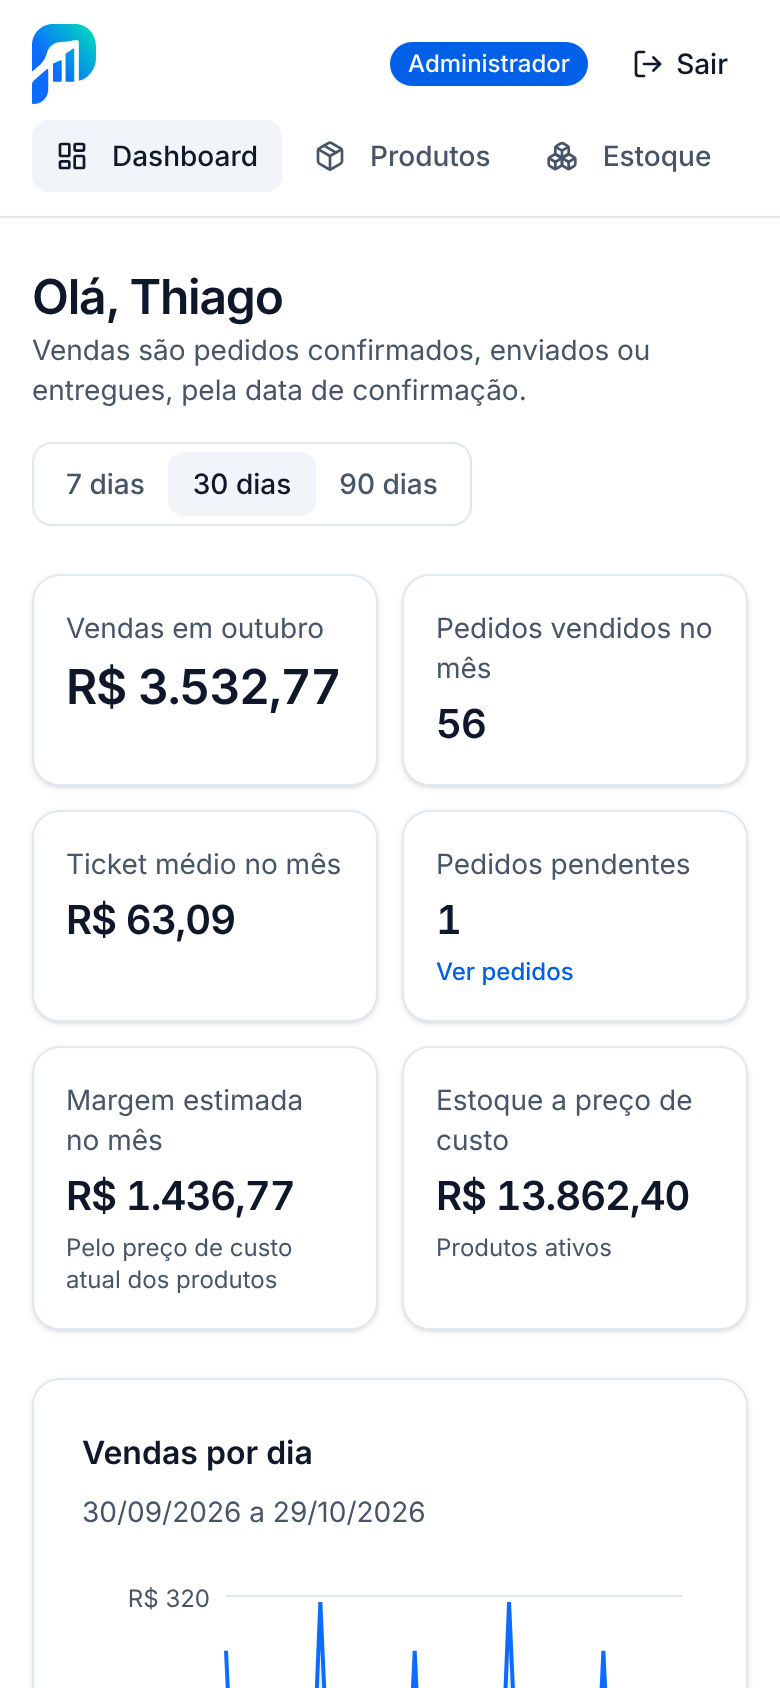
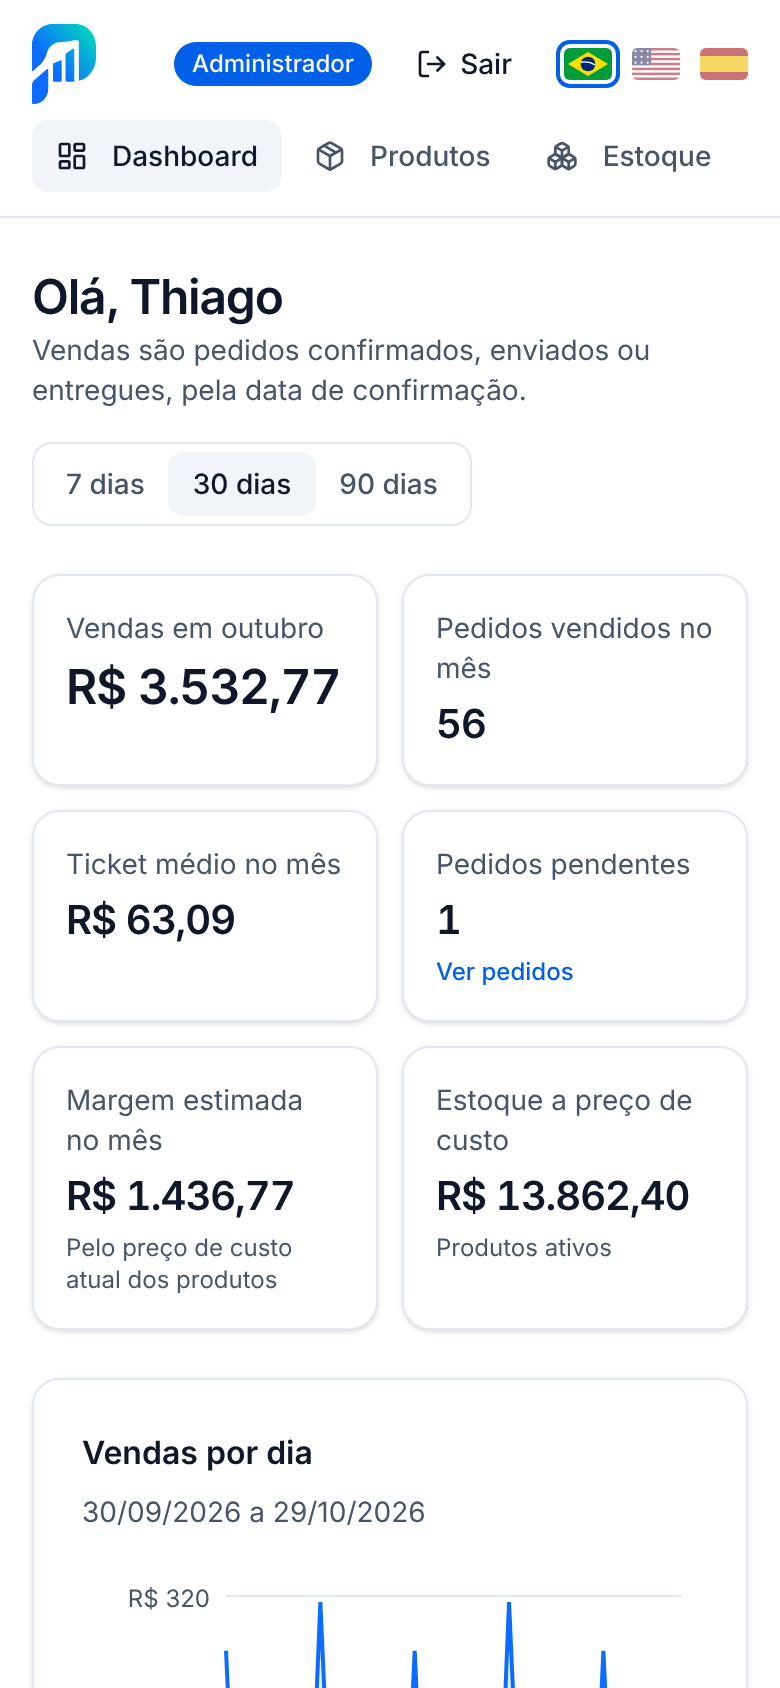
Capturas de tela com o seletor de idioma, uma por idioma do README
- docs/screenshots/*.png refeitas em português, com as bandeiras no topo.
- docs/screenshots/en e docs/screenshots/es: as mesmas telas em inglês e
  espanhol, usadas pelo README.en.md e pelo README.es.md.
- Funcionalidades dos três READMEs citam os três idiomas.

Claude-Session: https://claude.ai/code/session_01VMvWN1fccSBpVKyhRyJjJP

Changed region(s): [[0.2154, 0.0, 0.9538, 0.0616]]

diff --git a/README.es.md b/README.es.md
@@ -23,7 +23,7 @@
 </p>
 
 <p align="center">
-  <img src="docs/screenshots/dashboard.png" alt="Panel con los indicadores del mes y el gráfico de ventas por día" width="900">
+  <img src="docs/screenshots/es/dashboard.png" alt="Panel con los indicadores del mes y el gráfico de ventas por día" width="900">
 </p>
 
 ## Sobre el proyecto
@@ -50,20 +50,21 @@ Las reglas que no pueden fallar viven en PostgreSQL, no solo en la pantalla: per
 - **Usuarios:** el administrador cambia perfiles y activa o desactiva cuentas; quien es desactivado pierde el acceso al instante.
 - **API REST:** rutas para productos, inventario, clientes, pedidos, panel y usuarios, con validación en Zod y errores estandarizados.
 - **Datos de demostración:** 16 productos, 10 clientes y unos 110 pedidos de los últimos 60 días, creados con las mismas funciones de la aplicación.
+- **Tres idiomas:** portugués, inglés y español, elegidos con las banderas en la parte superior de la pantalla. Textos, mensajes de error, números y fechas cambian juntos; en la primera visita se usa el idioma del navegador.
 
 ## Pantallas
 
 | | |
 | --- | --- |
-| ![Lista de pedidos con estado](docs/screenshots/pedidos.png) | ![Pedido pendiente con sus acciones de estado](docs/screenshots/pedido.png) |
+| ![Lista de pedidos con estado](docs/screenshots/es/pedidos.png) | ![Pedido pendiente con sus acciones de estado](docs/screenshots/es/pedido.png) |
 | Pedidos: búsqueda por número o cliente y filtro de estado | Pedido: ítems, total, cliente y acciones de estado |
-| ![Inventario con alerta de inventario bajo e historial](docs/screenshots/estoque.png) | ![Lista de productos](docs/screenshots/produtos.png) |
+| ![Inventario con alerta de inventario bajo e historial](docs/screenshots/es/estoque.png) | ![Lista de productos](docs/screenshots/es/produtos.png) |
 | Inventario: movimientos, alerta de mínimo e historial | Productos: búsqueda, categoría y estado |
-| ![Administración de usuarios](docs/screenshots/usuarios.png) | ![Pantalla de inicio de sesión](docs/screenshots/login.png) |
+| ![Administración de usuarios](docs/screenshots/es/usuarios.png) | ![Pantalla de inicio de sesión](docs/screenshots/es/login.png) |
 | Usuarios: perfil y acceso, solo para el administrador | Inicio de sesión |
 
 <p align="center">
-  <img src="docs/screenshots/dashboard-celular.png" alt="Panel en el móvil" width="320">
+  <img src="docs/screenshots/es/dashboard-celular.png" alt="Panel en el móvil" width="320">
   <br>
   <sub>Panel en el móvil</sub>
 </p>

diff --git a/README.en.md b/README.en.md
@@ -23,7 +23,7 @@
 </p>
 
 <p align="center">
-  <img src="docs/screenshots/dashboard.png" alt="Dashboard with the month's indicators and a daily sales chart" width="900">
+  <img src="docs/screenshots/en/dashboard.png" alt="Dashboard with the month's indicators and a daily sales chart" width="900">
 </p>
 
 ## About the project
@@ -50,20 +50,21 @@ The rules that must never fail live in PostgreSQL, not only in the UI: role-base
 - **Users:** the admin changes roles and activates or deactivates accounts; a deactivated user loses access immediately.
 - **REST API:** routes for products, inventory, customers, orders, dashboard and users, validated with Zod and with standard error responses.
 - **Demo data:** 16 products, 10 customers and about 110 orders from the last 60 days, created through the same functions the app uses.
+- **Three languages:** Portuguese, English and Spanish, picked with the flags at the top of the screen. Text, error messages, numbers and dates all change; on a first visit the browser language is used.
 
 ## Screens
 
 | | |
 | --- | --- |
-| ![Order list with status](docs/screenshots/pedidos.png) | ![Pending order with its status actions](docs/screenshots/pedido.png) |
+| ![Order list with status](docs/screenshots/en/pedidos.png) | ![Pending order with its status actions](docs/screenshots/en/pedido.png) |
 | Orders: search by number or customer and filter by status | Order: items, total, customer and status actions |
-| ![Inventory with low-stock alert and history](docs/screenshots/estoque.png) | ![Product list](docs/screenshots/produtos.png) |
+| ![Inventory with low-stock alert and history](docs/screenshots/en/estoque.png) | ![Product list](docs/screenshots/en/produtos.png) |
 | Inventory: movements, minimum-stock alert and history | Products: search, category and status |
-| ![User administration](docs/screenshots/usuarios.png) | ![Login screen](docs/screenshots/login.png) |
+| ![User administration](docs/screenshots/en/usuarios.png) | ![Login screen](docs/screenshots/en/login.png) |
 | Users: role and access, admin only | Login |
 
 <p align="center">
-  <img src="docs/screenshots/dashboard-celular.png" alt="Dashboard on a phone" width="320">
+  <img src="docs/screenshots/en/dashboard-celular.png" alt="Dashboard on a phone" width="320">
   <br>
   <sub>Dashboard on a phone</sub>
 </p>

diff --git a/README.md b/README.md
@@ -50,6 +50,7 @@ As regras que não podem falhar ficam no PostgreSQL, não só na tela: permissõ
 - **Usuários:** o administrador muda o perfil e ativa ou desativa contas; quem é desativado perde o acesso na hora.
 - **API REST:** rotas para produtos, estoque, clientes, pedidos, dashboard e usuários, com validação em Zod e erros padronizados.
 - **Dados de demonstração:** 16 produtos, 10 clientes e cerca de 110 pedidos dos últimos 60 dias, criados pelas mesmas funções do app.
+- **Três idiomas:** português, inglês e espanhol, escolhidos pelas bandeiras no topo da tela. Textos, mensagens de erro, números e datas mudam juntos; na primeira visita vale o idioma do navegador.
 
 ## Telas
 
